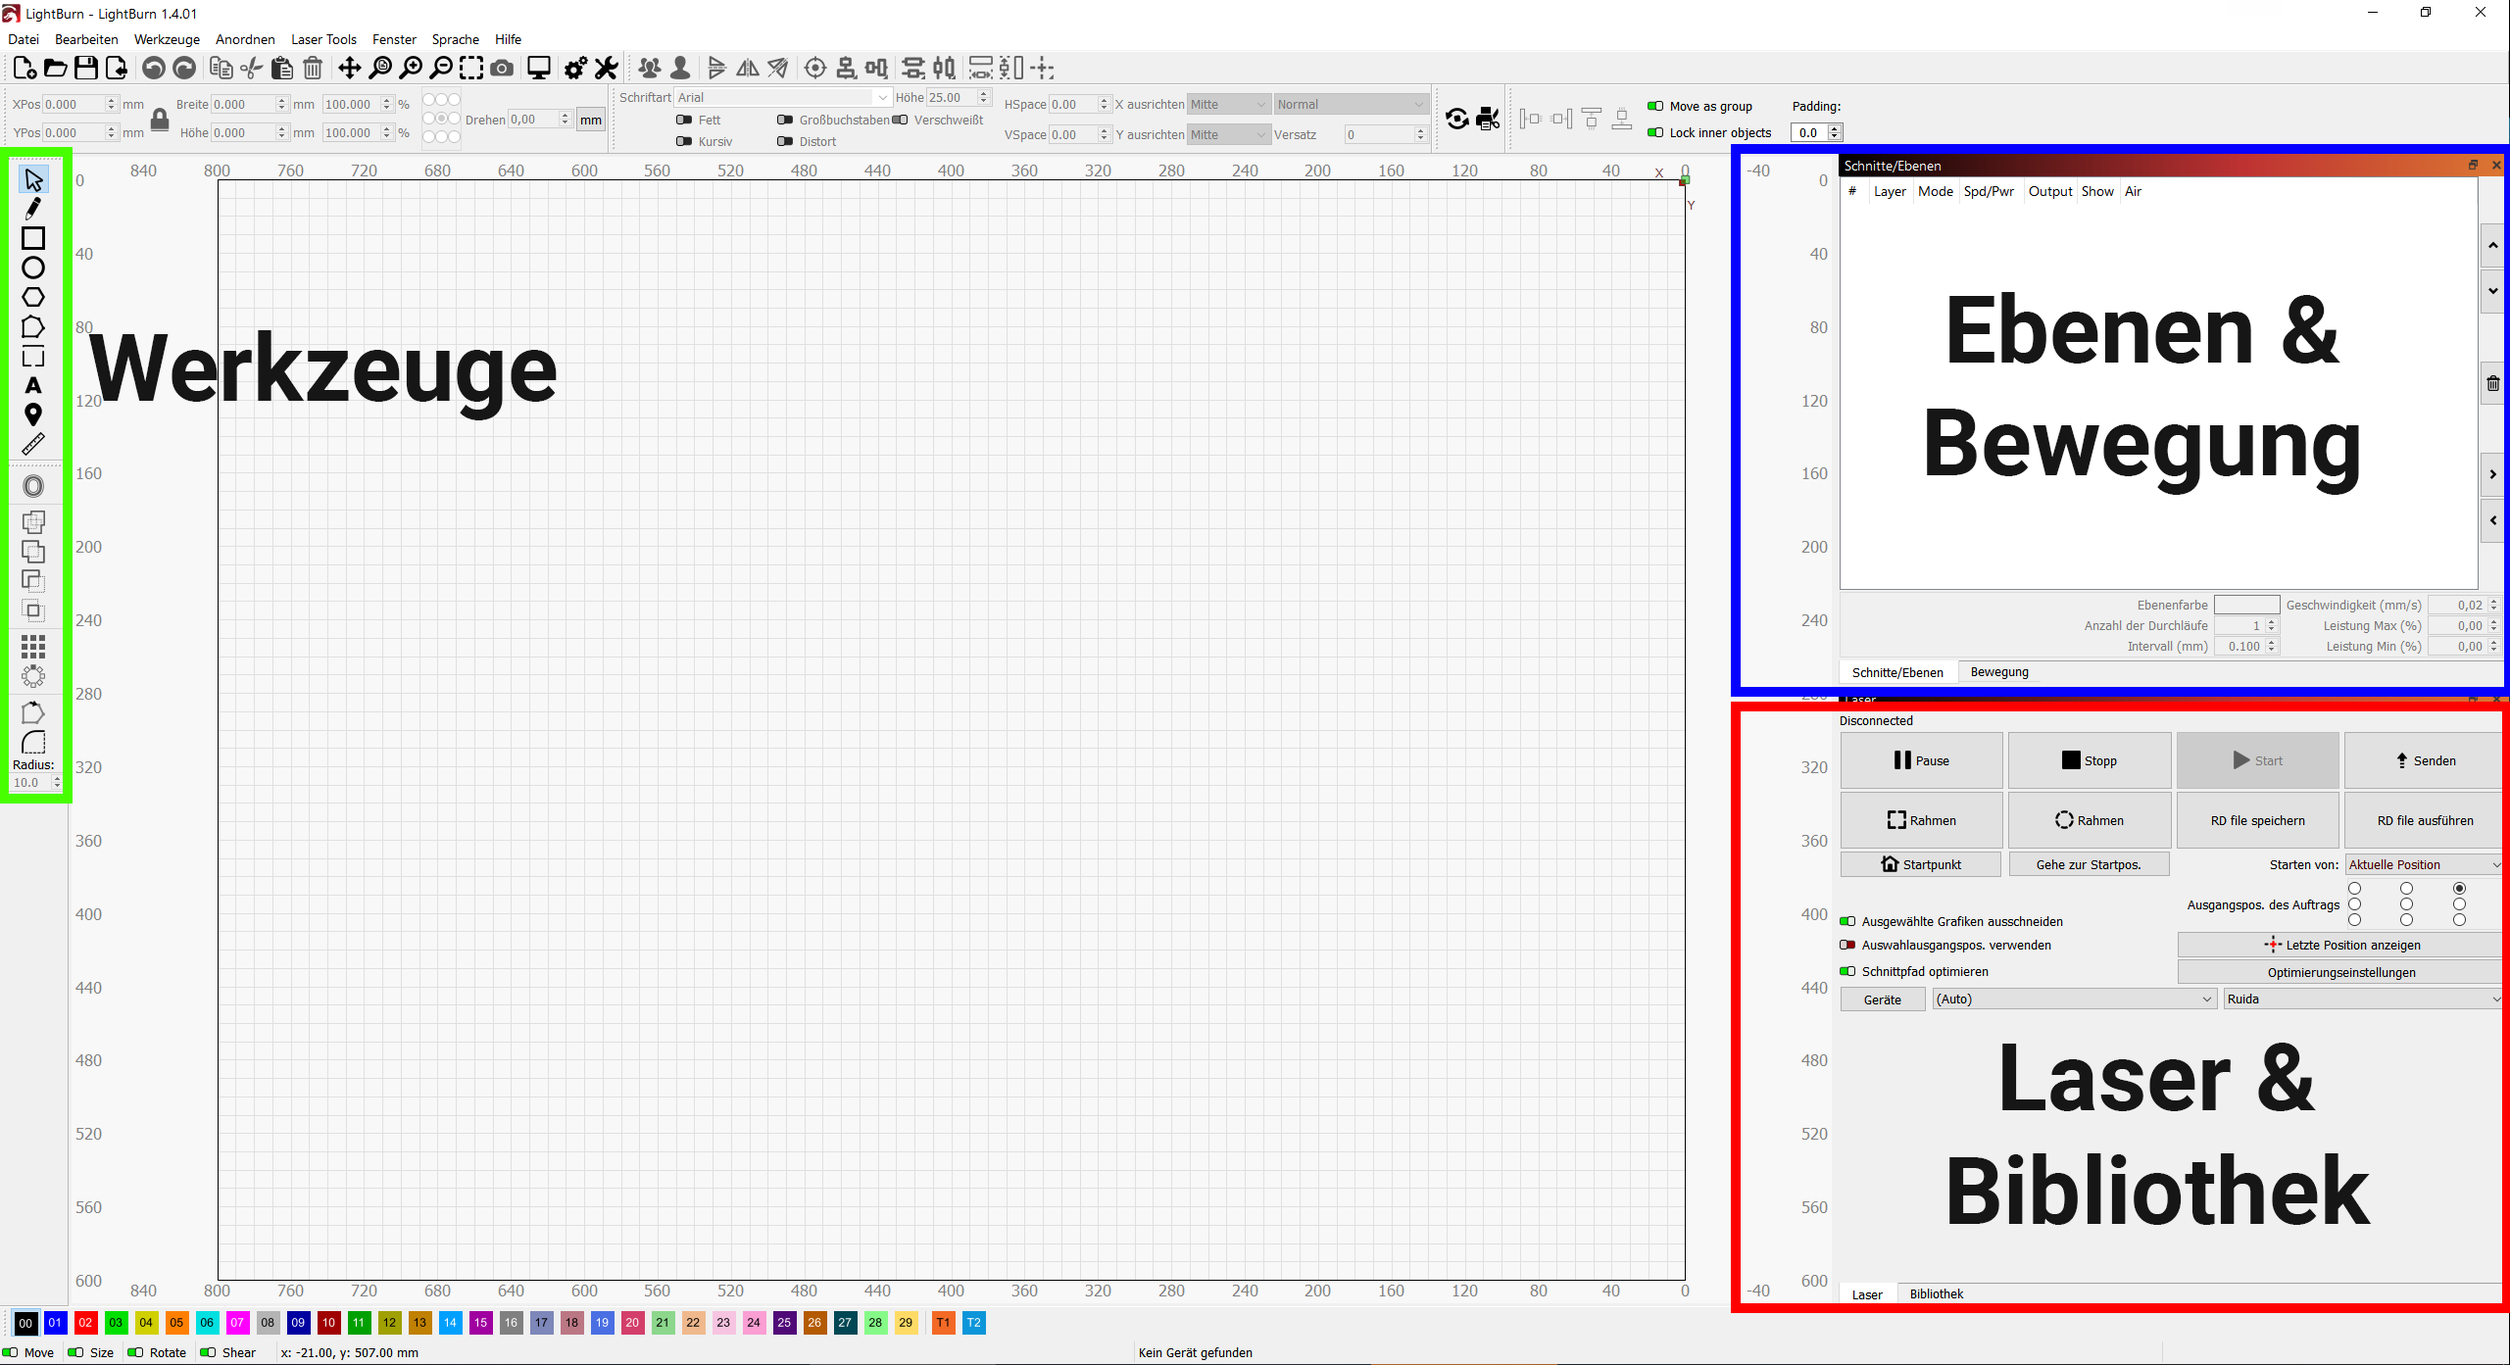
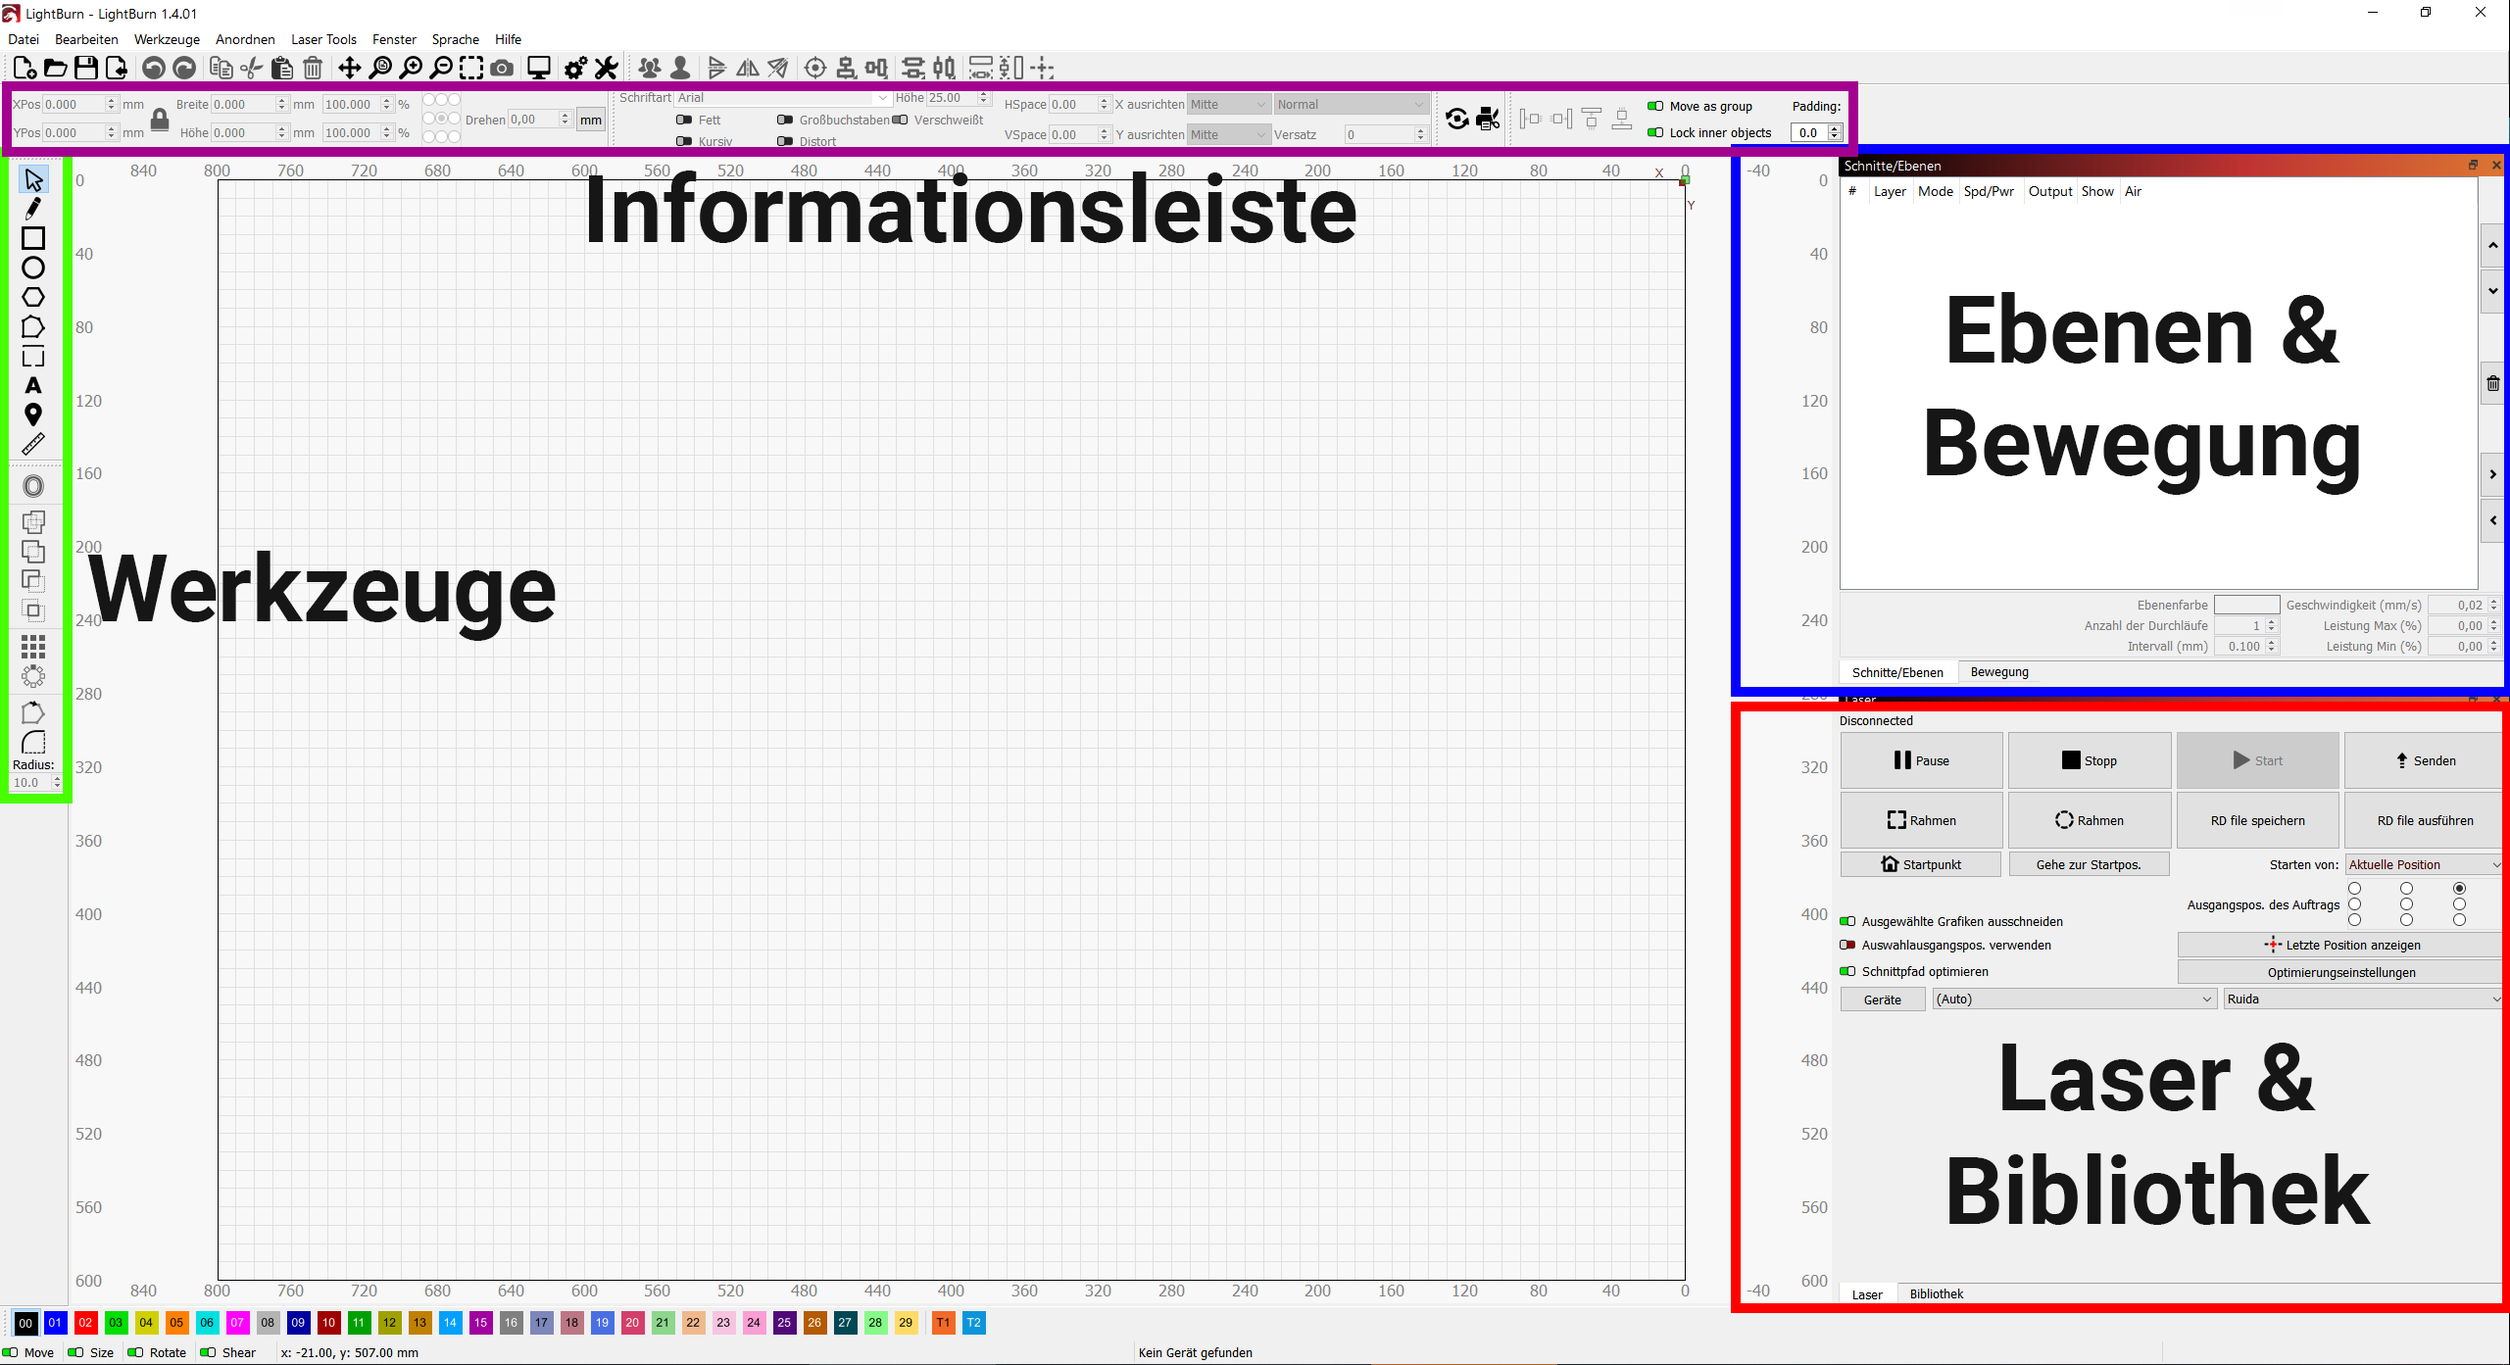
Verschiedenes

Changed region(s): [[0.0, 0.0617, 0.7497, 0.1852], [0.0312, 0.4013, 0.2187, 0.463], [0.0312, 0.2469, 0.2187, 0.3087]]

diff --git a/docs/style.css b/docs/style.css
@@ -102,3 +102,11 @@ img[alt=img80] {
     margin: auto;
     display: block;
 }
+
+
+
+/* Mermaid */
+
+.mermaid {
+    text-align: center;
+}

diff --git a/docs/nachschlagen_checklisten.md b/docs/nachschlagen_checklisten.md
@@ -1,72 +1,88 @@
 # Checklisten
 
-## Gerät einschalten
+## Arbeit am Laser beginnen
 
-``` mermaid
+```mermaid
 flowchart TD
-    1("Schubladenschlüssel aus dem Safe holen)
-    -->2("Schublade am Laser öffnen, um an den Geräteschlüssel zu gelangen")
-    -->3("Geräteschlüssel einstecken und drehen")
-    -->4("Chiller einschalten")
+    %% Standardknoten
+    start((("▶")))
+    ende((("🏁")))
+    class start mm_test;
 
+    %% Knoten-Abfolge
+    start
+    --> 2("Schubladenschlüssel aus dem Safe holen")
+    --> 3("Schublade am Laser öffnen, um an den Geräteschlüssel zu gelangen")
+    --> 4("Gerät mit Geräteschlüssel einschalten")
+    --> 5("Chiller einschalten")
+    --> 6(Laserkopf justieren)
+    --> ende
 ```
 
-## Lasern
-``` mermaid
+<br>
+
+## Laservorgang durchführen
+```mermaid
 flowchart TD
-    subgraph 1["Schnittmuster korrekt?"]
-        1a("Maßstab korrekt?")
-        -->1b("Richtige Grafiken ausgewählt?")
-        -->1c("3. Werkstück groß genug?")
+    %% Standardknoten
+    start((("▶")))
+    ende((("🏁")))
+
+    %% Subgraphen
+    subgraph form["Schnittmuster korrekt?"]
+        form_1("Maßstab")
+        --> form_2("Gewünschte Grafiken ausgewählt?")
+        --> form_3("Werkstück groß genug?")
     end
-    1-->2
-    subgraph 2["Ebenen-Einstellungen korrekt?"]
-        2a("Geschwindigkeit und Power korrekt?")
-        -->2b("Weitere Einstellungen (Versatz etc.) korrekt?")
-        -->2c("Output nur für die Ebene(n), die gelasert werden soll")
+
+    subgraph ebenen["Ebenen-Einstellungen korrekt?"]
+        ebenen_1("Geschwindigkeit und Power")
+        --> ebenen_2("Weitere Einstellungen (Versatz etc.)")
+        --> ebenen_3("Output nur für die Ebenen, die gelasert werden sollen")
     end
-    2-->3("Lüftung eingeschaltet?")
+
+    %% Knoten-Abfolge
+    start
+    --> form
+    --> ebenen
+    --> lüftung("Lüftung eingeschaltet?")
+    --> ende
 ```
 
-1. Schnittmuster korrekt?
-   1. Maßstab überprüft? (Lineal-Werkzeug in Lightburn)
-   2. Richtige Grafik zum Lasern ausgewählt?
-   3. Werkstück groß genug?
-2. Ebenen korrekt eingerichtet?
-   1. Geschwindigkeit und Power passend eingestellt
-   2. Weitere Einstellungen (Versatz etc.) korrekt?
-   3. Output nur für die Ebene, die gelasert werden soll
-3. Lüftung eingeschaltet?
-
+<br>
 
 ## Arbeit am Laser beenden
 
-``` mermaid
+```mermaid
 flowchart TD
-    1("Stäbe entfernen und abwischen")
-    1 --> 2("Materialliste mit dem Staubsauger entfernen")
-    2 --> 3
-    subgraph 3["Geräte ausschalten"]
+    %% Standardknoten
+    start((("▶")))
+    ende((("🏁")))
+
+    %% Subgraphen
+    subgraph reinigung["Reinigung"]
+        unterlage("Stäbe/ Wabenplatte entfernen und abwischen")
+        --> saugen("Materialreste mit dem Staubsauger entfernen")
+    end
+
+    subgraph strom["Geräte ausschalten"]
         direction LR
-        3a("Laser")
-        -->3b("Chiller")
-        -->3c("Lüftung")
+        strom_1("Lüftung")
+        -->strom_2("Chiller")
+        -->strom_3("Laser")
     end
-    subgraph 4["Schlüssel verstauen"]
-        4a("Geräteschlüssel in Geräteschublade")
-        -->4b("Schubladenschlüssel im Safe")
+
+    subgraph schlüssel["Schlüssel verstauen"]
+        schlüssel_1("Geräteschlüssel in Geräteschublade")
+        -->schlüssel_2("Schubladenschlüssel in Safe")
     end
-    3 --> 4
 
-
+    %% Knoten-Abfolge
+    start
+    --> reinigung
+    --> strom
+    --> schlüssel
+    --> ende
 ```
-<br>
 
-1. Stäbe entfernen und abwischen
-2. Gerät mit dem Staubsauger säubern
-3. Gerät ausschalten
-4. Geräteschlüssel in der Schublade ablegen
-5. Schubladenschlüssel in der Schlüsselbox ablegen
-6. Chiller ausschalten
-7. Lüftung ausschalten
-8. Sich in der "Laserliste" eintragen
+<br>

diff --git a/docs/wartung_dokumentation.md b/docs/wartung_dokumentation.md
@@ -1,6 +1,6 @@
 # Diese Dokumentation bearbeiten
 
-Die Dokumentation wurde mit [MkDocs](https://www.mkdocs.org/) erstellt. Die Bearbeitung erfolgt über ein direktes Editieren der Markdown-Dateien.
+Die Dokumentation wurde mit [MkDocs](https://www.mkdocs.org/){:target="_blank"} erstellt. Die Bearbeitung erfolgt über ein direktes Editieren der Markdown-Dateien.
 
 Zur Erstellung fertigen HTML-Version muss über MkDocs ein Build-Prozess ausgeführt werden.
 
@@ -17,9 +17,9 @@ Für die Bearbeitung zuhause sollte das GitHub-Repository genutzt werden. Bitte 
 
 **MkDocs und Erweiterungen installieren**
 
-1. Python installieren: [https://www.python.org/downloads/](https://www.python.org/downloads/)
+1. Python installieren: [https://www.python.org/downloads/](https://www.python.org/downloads/){:target="_blank"}
 2. Python Package Manger installieren
-   1. Installationsskript runterladen: [https://bootstrap.pypa.io/get-pip.py](https://bootstrap.pypa.io/get-pip.py)
+   1. Installationsskript runterladen: [https://bootstrap.pypa.io/get-pip.py](https://bootstrap.pypa.io/get-pip.py){:target="_blank"}
    2. Installationsskript ausführen
 3. Im Terminal bzw. in der Powershell folgenden Befehl ausführen:
 <br>`pip install mkdocs mkdocs-material mdx_truly_sane_lists`
@@ -28,7 +28,7 @@ Für die Bearbeitung zuhause sollte das GitHub-Repository genutzt werden. Bitte 
 **Vorschau beim Bearbeiten**
 
 1. Beileigende Batch-Datei *mkdocs_serve.bat* ausführen
-3. Die Vorschau ist im Browser erreichbar unter [http://127.0.0.1:8000](http://127.0.0.1:8000)
+3. Die Vorschau ist im Browser erreichbar unter [http://127.0.0.1:8000](http://127.0.0.1:8000){:target="_blank"}
 
 <br>
 **Build-Prozess**
@@ -39,11 +39,22 @@ Für die Bearbeitung zuhause sollte das GitHub-Repository genutzt werden. Bitte 
 ## Markdown-Syntax
 Du kannst dich beim Bearbeiten an den bestehenden Inhalten orientieren. Ein leichter Einstieg ist immer vorhandene Inhalte zu kopieren und abzuändern. Wenn du das tust, dann solltest du darauf achten, dass die Formatierung (z.B. Texteinrückung) gleich bleibt.
 
-- [Markdown-Cheatsheet](https://www.markdownguide.org/cheat-sheet/)
-- [Emojis](https://squidfunk.github.io/mkdocs-material/reference/icons-emojis/) (Empfehlung: Suchfeld benutzen)
-- [Bausteine des Themes](https://squidfunk.github.io/mkdocs-material/reference/admonitions/) (Hinweiskästen, Tabs etc.)
+- [Markdown-Cheatsheet](https://www.markdownguide.org/cheat-sheet/){:target="_blank"}
+- [Emojis](https://squidfunk.github.io/mkdocs-material/reference/icons-emojis/){:target="_blank"} (Empfehlung: Suchfeld benutzen)
+- [Bausteine des Themes](https://squidfunk.github.io/mkdocs-material/reference/admonitions/){:target="_blank"} (Hinweiskästen, Tabs etc.)
+- [Mermai-Dokumentation](https://mermaid.js.org/intro/){:target="_blank"} (Ablaufdiagramme)
+- [Mermaid-Cheatsheet](https://jojozhuang.github.io/tutorial/mermaid-cheat-sheet/){:target="_blank"}
 
 ### Breite von Bildern definieren
 Bilder können in der Breite auf 40%/ 50%/ 60%/ 70%/ 80% der verfügbaren Fläche skaliert werden. Hierfür muss einfach die Bezeichnung *img40*/ *img50*/ *img60*/ *img70*/ *img80* im Feld für die Bildbeschreibung eingetragen werden.
 
 `![img60](Grafik - Lasercutter.png)` entspricht 60% Breite der verfügbaren Fläche
+
+## Empfohlene Software zur Bearbeitung
+
+- [VSCode](https://code.visualstudio.com/){:target="_blank"}
+- VSCode-Erweiterungen
+  - Markdown All in One
+  - Markdown Table
+  - Mermaid Markdown Syntax Highlighting
+  - Mermaid Preview

diff --git a/docs/einsteiger_lightburn_grundlagen.md b/docs/einsteiger_lightburn_grundlagen.md
@@ -1,7 +1,5 @@
 # Einführung in Lightburn
-Auf dem folgenden Bild siehst Du eine grundlegende Übersicht zu Lightburn:
 ![Screenshot Lightburn](assets/Screenshot - Lightburn.png)
-Auf der rechten Seiten verschiedenen sich verschiedene Bedienfelder in derselben Fläche. Du kannst über die Tabs zwischen den Bedienfeldern wechseln.
 
 === "Werkzeuge"
 
@@ -14,11 +12,20 @@ Auf der rechten Seiten verschiedenen sich verschiedene Bedienfelder in derselben
     - Array-Werkzeuge, um ein Schnittmuster automatisch zu vervielfältigen
     - Bearbeitungswerkzeuge für Punkte/ Ecken
 
+=== "Informationsleiste"
+
+    Hier werden Informationen (u.a. Position, Größe) zum aktuell ausgewählten Objekt angezeigt. Wenn ein Text ausgewählt ist, dann kann hier die Schriftart, -größe usw. eingestellt werden.
+
+    Im rechten Teil der Leiste befinden sich erweiterte Funktionen zum Anordnen von Objekten.
+
+
 === "Ebenen"
 
     Schnittmuster können auf mehrere Ebenen verteilt werden. So kannst Du bequem unterschiedliche Teile deines Schnittmusters mit unterschiedlichen Einstellungen lasern.
 
     Bei den Ebenen wird die Art des Laserns (Schneiden/ Gravur) sowie die Laserstärke eingestellt. Bei Bedarf auch andere Einstellungen (z.B. Anzahl der Durchgänge, Versatz).
+
+    Die Bedienfelder *Ebenen* und *Bewegung* befinden sich an der gleichen Stelle. Man wechselt zwischen beiden über die Tabs.
 
 === "Bewegung"
 
@@ -28,11 +35,8 @@ Auf der rechten Seiten verschiedenen sich verschiedene Bedienfelder in derselben
 
 === "Laser"
 
-    Hier erfolgt die Steuerung des Laservorgangs (Start, Stop, Pause). Du kannst auswählen
+    Hier erfolgt die grundlegende Steuerung des Laservorgangs (Start, Stop, Pause, Ausgangspunkt des Laserns).
 
 === "Bibliothek"
 
-    In der Materialbibliothek
-
-
-
+    In der Materialbibliothek können Einstellungen zum Lasern abgelegt werden, sodass diese später bequem wiederverwendet können.

diff --git a/docs/einsteiger_gerätestart.md b/docs/einsteiger_gerätestart.md
@@ -1,11 +1,11 @@
-# Gerät einschalten & vorbereiten
+# Arbeit am Laser beginnen
 
 
 Zum Einschalten des Geräts müssen die folgenden Schritte durchgeführt werden:
 
 1. Schubladen-Schlüssel aus der Schlüsselbox holen
 2. Schublade am Laser öffnen, um an den Geräteschlüssel zu gelangen
-3. Geräteschlüssel einstecken und drehen
+3. Gerät mit Geräteschlüssel einschalten
 4. Abwarten bis der Laserkopf sich vollständig ausgerichtet hat
 
 
@@ -13,12 +13,12 @@ Zum Einschalten des Geräts müssen die folgenden Schritte durchgeführt werden:
 
 === "Schlüsselbox"
 
-    ![img60](assets/Foto - Safe.png)
+    ![img60](assets/Foto - Safe.jpg)
 
-=== "Chiller & Stäbe"
+=== "Chiller, Stäbe & Wabenplatte"
 
-    ![img60](assets/Foto - Chiller.png)
+    ![img60](assets/Foto - Chiller.jpg)
 
 === "Lüftung"
 
-    ![img60](assets/Foto - Lüftung.png)
+    ![img60](assets/Foto - Lüftung.jpg)

diff --git a/docs/einsteiger_lightburn_lasern.md b/docs/einsteiger_lightburn_lasern.md
@@ -1,11 +1,14 @@
 # Laservorgang durchführen
 
-
 !!! warning "Verwendbares Material"
     Im Laser darf nur Material verwendet werden, wenn das Material eindeutig bestimmbar ist. Andernfalls kann es zu Problemen bei der Verarbeitung und/ oder Beschädigungen am Gerät und/ oder gesundheitlichen Beeinträchtigungen kommen.
 
     Informationen zu den verschiedenen Materialien gibt es hier: [Materialien zum Lasern](nachschlagen_materialliste.md).
 
+## Laserkopf justieren
+
+
+## Einstellungen in Lightburn
 
 
 !!! tip "Ebenen-Einstellungen"
@@ -14,16 +17,6 @@
     Öffne die Ebenen-Einstellungen und betätigte den Knopf "*Auf Standard zurücksetzen*", um die Einstellungen zurückzusetzen. Dies muss für jede Ebene einzeln vorgenommen werden.
 
 
-# Bedienfelder im Detail
-
-## Schnitte/ Ebenen
-
-### Test
-
-## Laser
-
-## Bibliothek
 
 
-
-
+- Vorschau (Fenster --> Vorschau)

diff --git a/docs/nachschlagen_materialtest.md b/docs/nachschlagen_materialtest.md
@@ -8,6 +8,8 @@ Ein Materialtest ist praktisch, wenn ein neues Material genutzt wird und geeigne
 <br>
 Zunächst werden die Einstellungen definiert, die getestet werden sollen:
 ![img70](assets/Screenshot - Materialtest - Einstellungen.png)
+Die Standardeinstellung ist Schneiden (Line). Über die Schaltfläche *Edit Material Settings* kann auf Gravieren (Fill) gewechselt werden. Die entsprechende Einstellungen befindet sich dort im oberen rechten Bereich (Aufklappfeld *Modus*).
+
 
 <br>
 Über *Vorschau* kann geprüft werden, ob die Einstellungen den eigenen Wünschen/ Vorstellungen ergeben:

diff --git a/README.md b/README.md
@@ -1,4 +1,4 @@
-Laser-Dokumentation des Maker Space Leipzig.
+Laser-Dokumentation des Maker Space Leipzig auf Basis von MkDocs.
 
-Die Dokumentation wird durch eine GitHub-Action automatisch bereitgestellt unter:
-[https://maker-space-leipzig.github.io/Laser-Dokumentation](https://maker-space-leipzig.github.io/Laser-Dokumentation)
+
+Auf GitHub gepusht werden nur Quelldateien. Der Build-Prozess von MkDocs wird automatisch durch eine GitHub-Action durchgeführt und der fertige Build anschließend im Branch *gh-pages* abgelegt. Dieser Branch wird als GitHub-Page bereitgestellt.

diff --git a/docs/index.md b/docs/index.md
@@ -1,11 +1,11 @@
 # Willkommen
 
-Hier findest Du Informationen rund um das Lasern im Maker Space.
-
 Hier gibt es Anleitungen für den Einstieg ins Laser und Nachschlagewerke für die Praxis.
 
 <br><br>
 ![img70](assets/Grafik - Lasercutter.png)
 
 <br><br>
-<br><br>
+Hast du Vorschläge für weitere Inhalte?
+
+Dann schreib im Slack-Channel *#laser* oder per Mail an [fablab@makerspace-leipzig.de](mailto:fablab@makerspace-leipzig.de) .
